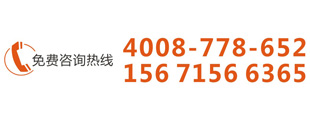
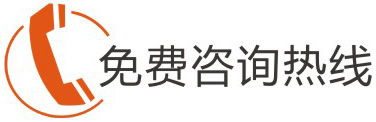
home page UI

Changed region(s): [[0.0, 0.0, 1.0, 0.9828]]

diff --git a/SunShine.Web/Css/Bootstrap/home.css b/SunShine.Web/Css/Bootstrap/home.css
@@ -887,7 +887,7 @@ ul.thirdLevel {
         height: 70px;
         float: left;
         font-weight: bold;
-        margin-right:20px;
+        margin-right: 20px;
     }
 
 .friend_link_title img {
@@ -1142,10 +1142,10 @@ ul.thirdLevel {
     }
 
 .gundongbejing {
-    background-color:#E15517;
+    background-color: #E15517;
     height: 181px;
-    border-bottom:10px solid #363533;
-    position:relative;
+    border-bottom: 10px solid #363533;
+    position: relative;
 }
 
 .gundongxiaoguo {
@@ -1177,29 +1177,32 @@ ul.thirdLevel {
         }
 
 .logo {
-    width: 690px;
-    height: 116px;
     float: left;
 }
+.logo a img {
+    width: 550px;
+}
+
 
 .telephonenumber {
-    width: 310px;
-    height: 116px;
-    float: left;
-    background: url(../../Images/home/fgz_06.jpg) no-repeat;
+        float: left;
+    margin-left: 15px;
 }
 
-    .telephonenumber .guhua {
-        margin-top: -5px;
+    .telephonenumber .telephonenumber_item {
+        font-size: 26px;
+        color: #E15517;
+        font-weight: bold;
     }
 
-    .telephonenumber .guhua_shouji {
-        font-size: 20px;
-        color: #e51d1f;
-        font-weight: bold;
-        margin-top: 50px;
-        margin-left: 90px;
-        letter-spacing: 1px;
+.telephonenumber_icon {
+    float: left;
+    margin-left: 70px;
+    padding-top: 15px;
+}
+
+    .telephonenumber_icon img {
+        width: 140px;
     }
 
 
@@ -1422,12 +1425,15 @@ ul.advance_item_content_box {
 }
 
 .big_questions_box {
-    width: 100%;
+    margin:0 auto;
+    width: 1444px;
     text-align: center;
     padding: 20px 0;
     background-color: #F3F3F3;
 }
-
+    .big_questions_box img {
+        width:1000px;
+    }
 .set_position_box {
     width: 100%;
     text-align: center;
@@ -1436,7 +1442,8 @@ ul.advance_item_content_box {
 }
 
 .design_compare {
-    width: 100%;
+    width: 1444px;
+    margin:0 auto;
     text-align: center;
     padding: 30px 0;
     background-color: #F3F3F3;
@@ -1444,13 +1451,16 @@ ul.advance_item_content_box {
 }
 
 .advantages_box {
-    width: 100%;
+    width: 1444px;
+    margin:0 auto;
     text-align: center;
     padding: 20px 0;
     margin-top: 20px;
 }
 
 .core_advance_box {
+    width: 1444px;
+    margin:0 auto;
     background-color: #f3f3f3;
     margin-top: 30px;
 }
@@ -1465,7 +1475,7 @@ ul.advance_item_content_box {
 .core_advance_box_content .core_advance_box_title {
     text-align: center;
     margin: 0 auto;
-    width: 100%;
+    width: 65%;
 }
 
 .core_advance_box_title img {
@@ -1476,21 +1486,37 @@ ul.advance_item_content_box {
     text-align: center;
     margin: 0 auto;
 }
-
-.core_advance_box_part .part_left {
+.core_advance_box_part1 {
+    margin-top:35px;
+}
+.core_advance_box_part1 .part_left {
     float: left;
-    width: 50%;
+    width: 380px;
 }
 
+.core_advance_box_part1 .part_right {
+    float: left;
+    width: 550px;
+    margin-top:-20px;
+    margin-left:40px;
+}
+.core_advance_box_part2 {
+    margin-top:35px;
+}
+.core_advance_box_part2 .part_left {
+    float: left;
+    width: 520px;
+    margin-left:-120px;
+}
+
+.core_advance_box_part2 .part_right {
+    float: left;
+    width:360px;
+    margin-left:20px;
+}
 .part_left img {
     width: 100%;
 }
-
-.core_advance_box_part .part_right {
-    float: left;
-    width: 50%;
-}
-
 .part_right img {
     width: 100%;
 }
@@ -1528,7 +1554,7 @@ ul.advance_item_content_box {
     }
 
 .service_title .img {
-    width: 800px;
+    width: 600px;
 }
 
 .design_service .service_item {
@@ -1594,46 +1620,53 @@ ul.advance_item_content_box {
 }
 
 .jcarousel_more {
-    width:150px;
-    float:left;
-    height:100%;
-    margin:0;
-    background-color:#E67817;
-    margin-left:100px;
+    width: 150px;
+    float: left;
+    height: 100%;
+    margin: 0;
+    background-color: #E67817;
+    margin-left: 100px;
 }
-.jcarousel_more .more_item {
-    text-align:center;
-    color:#FFFFFF;
-}
-.jcarousel_more .more_ch_title {
-        font-size: 34px;
-    margin-top: 40px;
-}
-.jcarousel_more .more_en_title {
-    font-size: 24px;
-    text-align: center;
-    color: #FFFFFF;
-    margin-top: 10px;
-}
-    .jcarousel_more .more_button {
-    margin-top: 25px;
+
+    .jcarousel_more .more_item {
+        text-align: center;
+        color: #FFFFFF;
     }
-.jcarousel_more .more_button a{
-    background-color:#FFFFFF;
-    text-align:center;
-    font-size:18px;
-    padding:5px 25px;
-}
+
+    .jcarousel_more .more_ch_title {
+        font-size: 34px;
+        margin-top: 40px;
+    }
+
+    .jcarousel_more .more_en_title {
+        font-size: 24px;
+        text-align: center;
+        color: #FFFFFF;
+        margin-top: 10px;
+    }
+
+    .jcarousel_more .more_button {
+        margin-top: 25px;
+    }
+
+        .jcarousel_more .more_button a {
+            background-color: #FFFFFF;
+            text-align: center;
+            font-size: 18px;
+            padding: 5px 25px;
+        }
+
 .partner_carousel {
-    width:1444px;
-    margin:0 auto;
-    text-align:center;
-    background-color:#E15517;
+    width: 1444px;
+    margin: 0 auto;
+    text-align: center;
+    background-color: #E15517;
 }
+
 .more_bottom {
-    margin-top:30px;
-    position:absolute;
-    bottom:0;
-    left:50%;
-    z-index:1000;
+    margin-top: 30px;
+    position: absolute;
+    bottom: 0;
+    left: 50%;
+    z-index: 1000;
 }

diff --git a/SunShine.Web/Css/Bootstrap/style.css b/SunShine.Web/Css/Bootstrap/style.css
@@ -98,7 +98,7 @@ hr {
 .center {
     width: 1000px;
     margin: 0 auto;
-    height: 116px;
+    padding:20px 0;
 }
 
 .logo {
@@ -543,7 +543,7 @@ hr {
                 position: absolute;
                 bottom: 0;
                 left: 0;
-                background-color:#000000;
+                background-color:#c9c9c9;
                 z-index:1000;
             }
 
@@ -560,7 +560,6 @@ hr {
         color: #FFFFFF;
         text-align: center;
         display: block;
-        font-weight: bold;
     }
 
 .zhanshi {
@@ -990,7 +989,7 @@ hr {
 }
 
 .content1 {
-    width: 1090px;
+    width: 1030px;
     height: 378px;
     margin: 0 auto;
     overflow: hidden;
